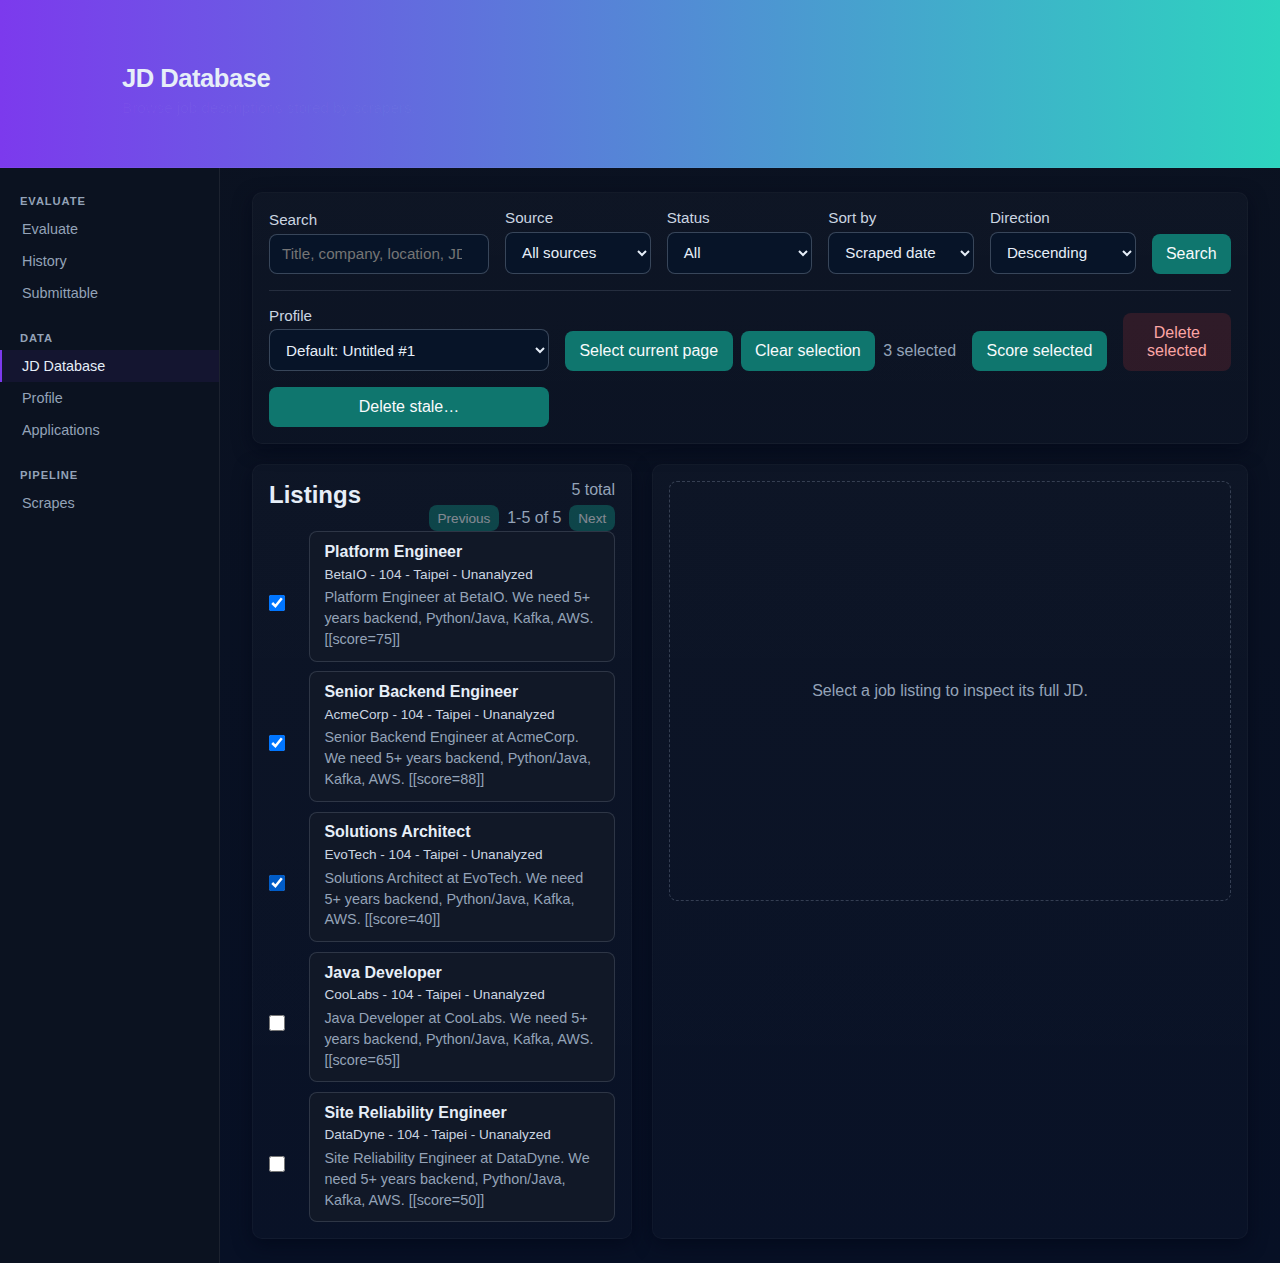
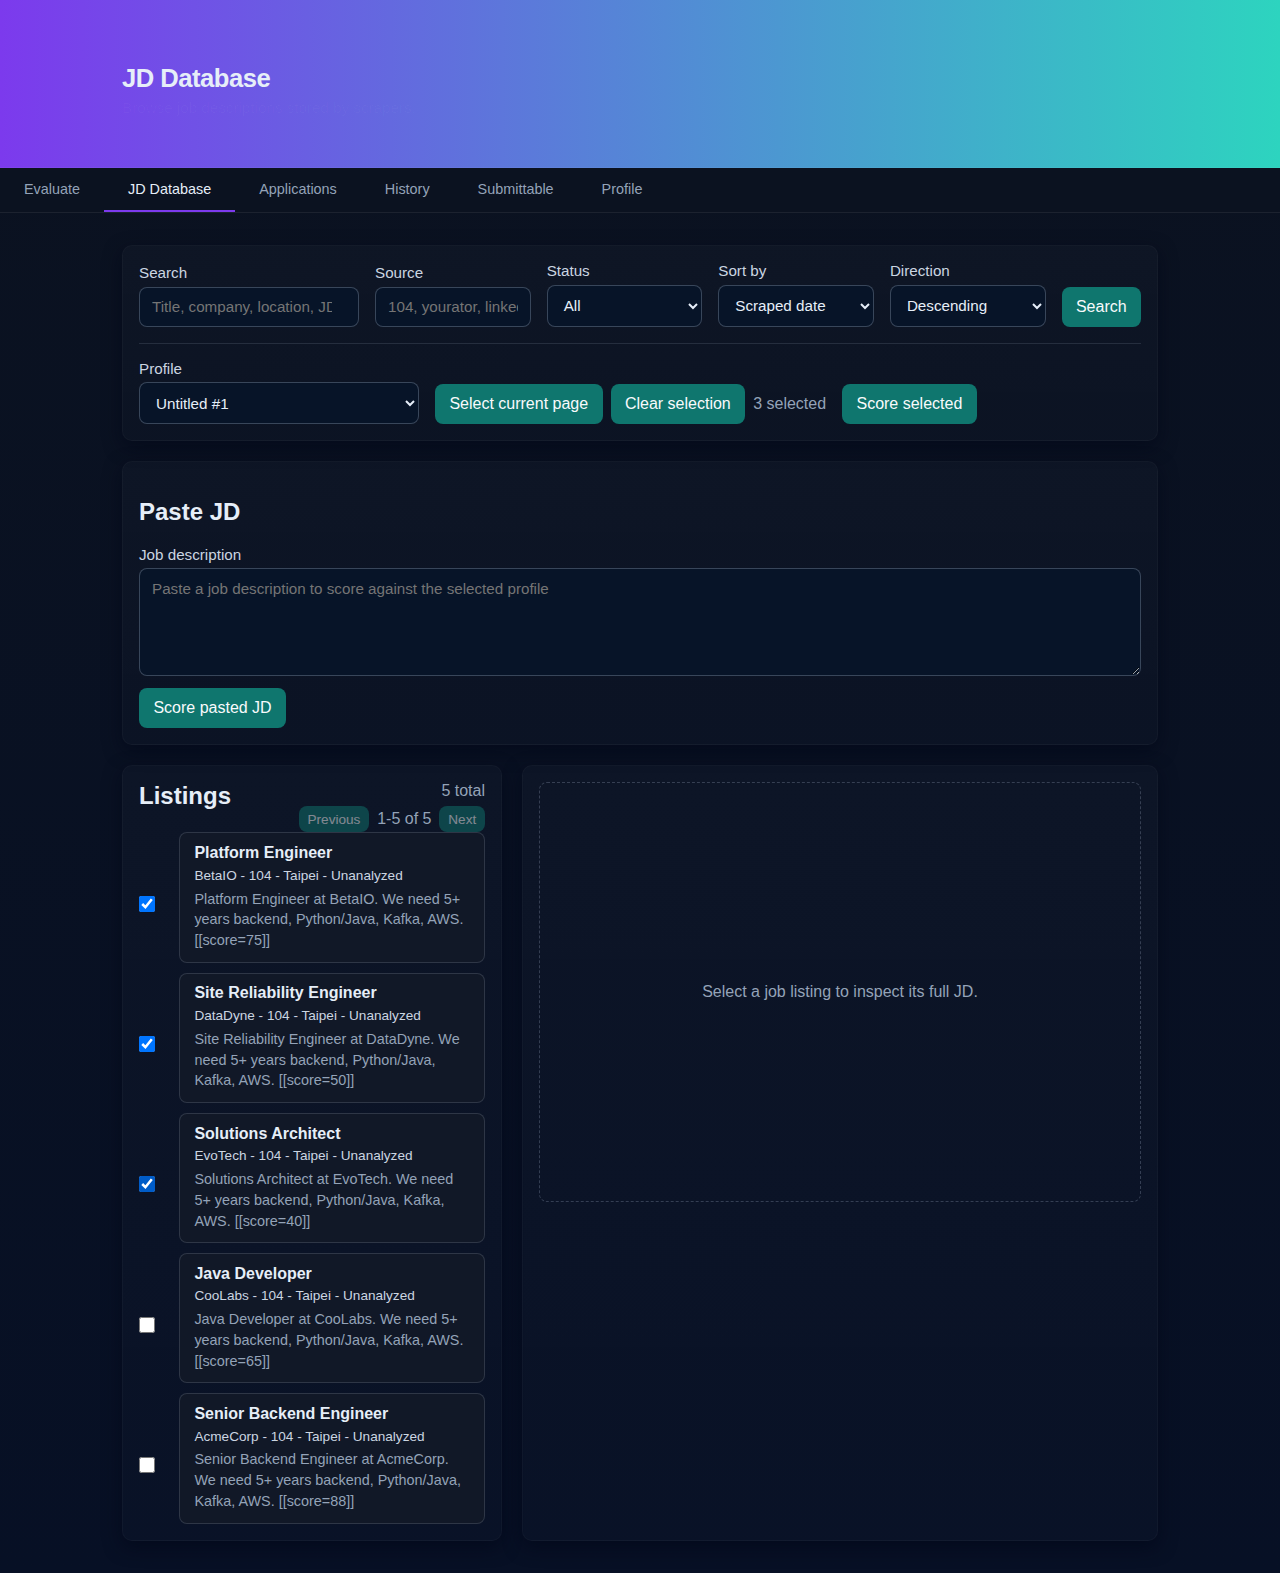
Refresh UI flow docs from E2E screenshots

diff --git a/docs/ui-flow.md b/docs/ui-flow.md
@@ -11,8 +11,8 @@ Source artifact used for this snapshot:
 | Field | Value |
 |---|---|
 | Artifact | `e2e-screenshots` |
-| Artifact ID | `7130756636` |
-| Created | `2026-05-21T08:22:50Z` |
+| Artifact ID | `7153541674` |
+| Created | `2026-05-22T05:41:14Z` |
 | Raw local path | `docs/assets/e2e-screenshots/` |
 | Annotated local path | `docs/assets/ui-flow/` |
 
@@ -21,6 +21,9 @@ Refresh the raw screenshots with:
 ```bash
 python scripts/download_e2e_screenshots.py
 ```
+
+If local Git credentials are not available to the script, set `GH_TOKEN` or
+`GITHUB_TOKEN` first.
 
 ## End-to-End Flow
 
@@ -122,25 +125,25 @@ Other JD Database actions:
 
 ## Applications
 
-The current checked-in screenshot artifact predates the Applications E2E flow.
-The guide maps the behavior here, and `test_application_tracker_flow.py` now
-captures tracker screenshots when the remote E2E workflow is rerun.
+![Annotated Applications screen](assets/ui-flow/applications-updated.annotated.png)
+
+| # | UI element | Trigger | Result |
+|---|---|---|---|
+| 1 | Search/filter/sort form | `GET /api/applications` with `q`, `status`, `sort_by`, `sort_dir`, `limit`, and `offset` | Reloads the application tracker table |
+| 2 | Applications table | Response from `/api/applications` | Shows company, title, score, PDF link, status, and follow-up date |
+| 3 | Status dropdown | `PATCH /api/applications/{id}` | Updates status to `planned`, `applied`, `interviewing`, `rejected`, `offer`, or `archived` |
+| 4 | Follow-up date input | `PATCH /api/applications/{id}` | Updates `follow_up_date` |
+
+Other Applications actions:
 
 | UI element | Trigger | Result |
 |---|---|---|
-| Search/filter/sort form | `GET /api/applications` with `q`, `status`, `sort_by`, `sort_dir`, `limit`, and `offset` | Reloads the application tracker table |
-| Status dropdown in a row | `PATCH /api/applications/{id}` | Updates status to `planned`, `applied`, `interviewing`, `rejected`, `offer`, or `archived` |
-| Follow-up date input | `PATCH /api/applications/{id}` | Updates `follow_up_date` |
 | PDF link | Opens stored `pdf_url` | Downloads or opens the generated resume PDF for that tracked opportunity |
 | Previous / Next | `GET /api/applications` with changed `offset` | Pages through tracked applications |
 
-Recommended next E2E coverage:
-
-1. Score a JD Database listing.
-2. Click `Track Application`.
-3. Open `/applications.html`.
-4. Change status and follow-up date.
-5. Capture screenshots for the tracker list and inline update states.
+The screenshot comes from `test_application_tracker_flow.py`, which scores a
+JD Database listing, tracks it as an application, opens `/applications.html`,
+then updates status and follow-up date.
 
 ## Screenshot Maintenance
 
